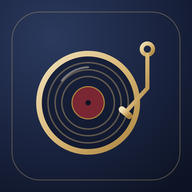
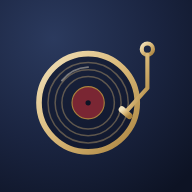
Iconos sin marco interior: iOS aplica su propia forma
Claude-Session: https://claude.ai/code/session_016k35bzsaVrxmGnMwsVbJwM

diff --git a/sw.js b/sw.js
@@ -1,5 +1,5 @@
 /* CiccApps — funciona sin conexión: guarda una copia de cada app y sus piezas al visitarlas. */
-const CACHE = 'ciccapps-v3';
+const CACHE = 'ciccapps-v4';
 self.addEventListener('install', e => self.skipWaiting());
 self.addEventListener('activate', e => e.waitUntil(
   caches.keys().then(ks => Promise.all(ks.filter(k => k !== CACHE).map(k => caches.delete(k)))).then(() => self.clients.claim())
